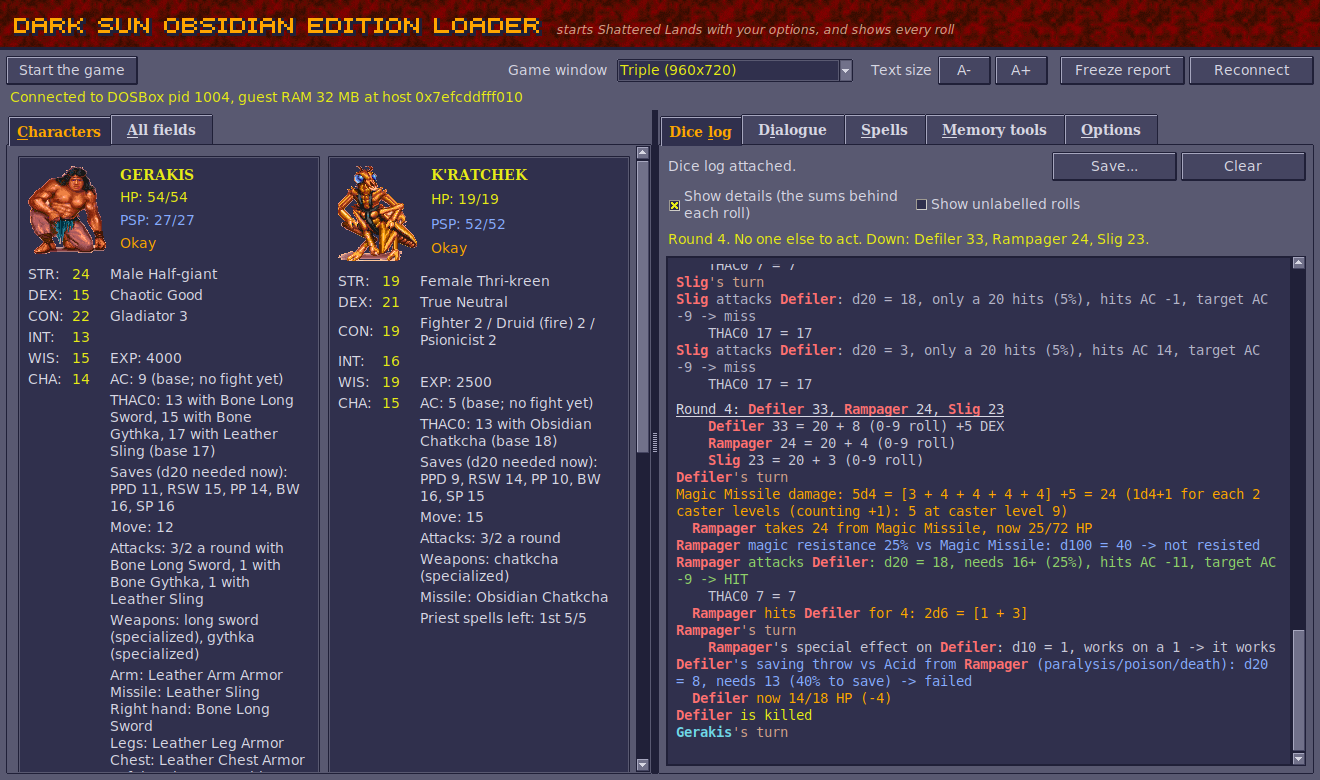
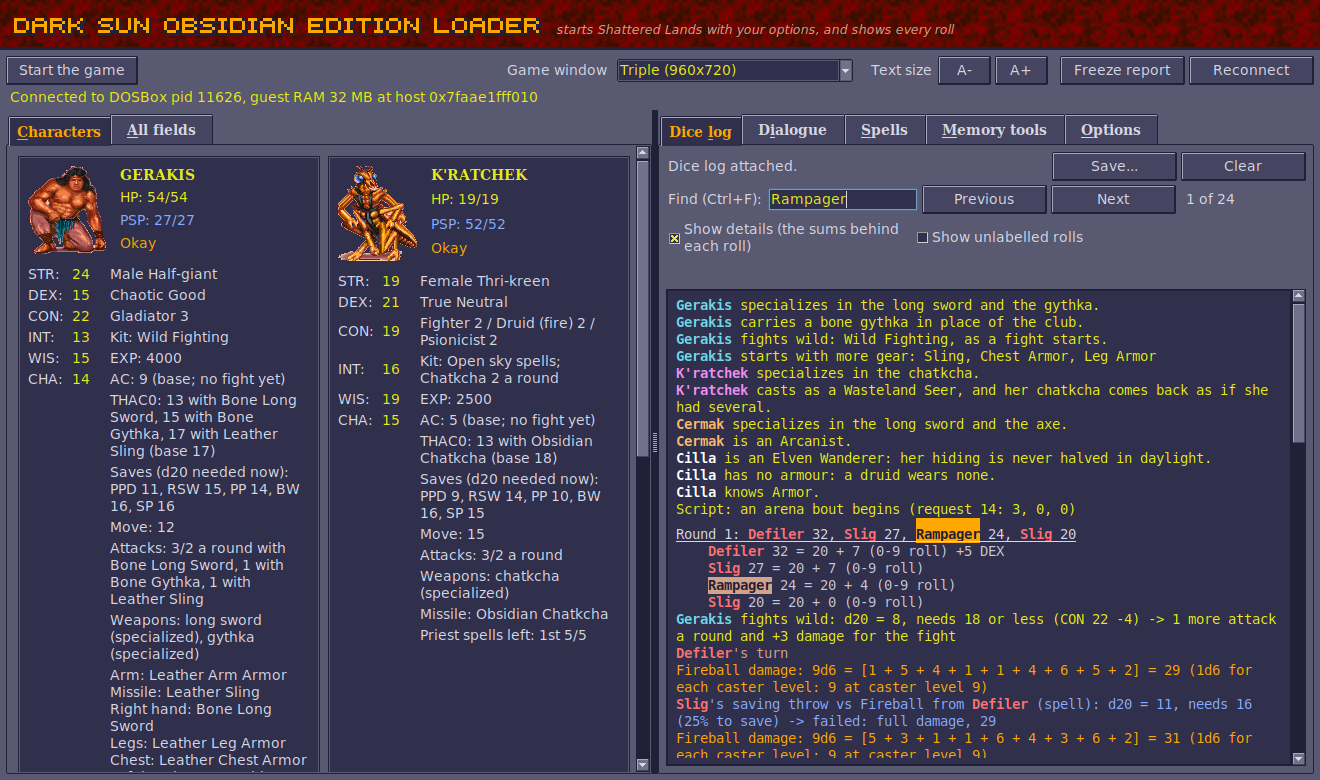
Docs review: scroll dice-log rows, Shinobi read languages link, new screenshots
The Loader README lists the scroll lines (a preserver's INT roll, a
Shinobi's read languages then INT, a spell not the Shinobi's) in the
dice-log table, points to the Effects screen for a Shinobi's read
languages, and names M for the overhead map. The dice log and Dialogue
screenshots are retaken with the Find box, and the Options screenshot
with the new backstab wording.

Claude-Session: https://claude.ai/code/session_01BNiWkhyZSJPYsN3zRrweVp

diff --git a/obsidian-edition/README.md b/obsidian-edition/README.md
@@ -86,7 +86,7 @@ in DOSBox. You start the game with the **Dark Sun Obsidian Edition Loader**
   and armour, figures cast shadows and kick up dust, and elves and half-elves
   have a look of their own ([Graphics](FEATURES.md#graphics)).
 - **Quality of life:** choosing an enemy with Tab and attacking it with Enter,
-  a view that stays put in fights, dragging the map with the mouse wheel held
+  M for the overhead map, a view that stays put in fights, dragging the map with the mouse wheel held
   down, a pointer in the intro and scenes that a click skips
   ([Controls](FEATURES.md#controls)); 40 saves, each also kept under its name,
   and 29 saved characters
@@ -439,7 +439,9 @@ right-hand panel, drawn by the game's text routine so they look like the rest:
   backstab](FEATURES.md#hiding-in-shadows-to-backstab)). A worn belt's 5 is in
   `PICK` and `LOCK`, and with hiding to backstab a worn cloak's 10 in `HIDE` and
   boots' 10 in `MOVE` (95 for the Cloak and Boots of Elvenkind). Hear noise (one
-  script check) and read languages (none) are left out for want of room. A
+  script check) and read languages (a Shinobi's, for a scroll: on its
+  [Effects screen](KITS.md#changing-class)) are left out for want of
+  room. A
   ranger, with hiding to backstab on, gets their `MOVE` and `HIDE` in the same
   places, the cloak and boots counted (the other four left out);
 - right of SP in the saves (where RSW and BW sit on the rows above), the DEX
@@ -738,7 +740,7 @@ text, with the replies offered numbered underneath (and the list's title,
 such as "Answer Yes or No", above them), and then the one you picked:
 `You chose: No`.
 
-![The Dialogue tab at the start of a new game: the Announcer, with his portrait, introducing the Defiler's show](docs/dialogue.png)
+![The Dialogue tab at the start of a new game: the Announcer, with his portrait, introducing the Defiler's show and calling the gladiators into the arena](docs/dialogue.png)
 
 **Who's speaking.** The game's dialogue window gets only a portrait number,
 never a name. But when the game runs a script on someone (you click them, or
@@ -771,7 +773,7 @@ How it works: [DEVELOPMENT.md](DEVELOPMENT.md#the-dialogue-tab).
 
 ## The dice log
 
-![The Loader during the arena's opening show: the Characters tab with the game's own party, and the dice log of the Defiler's Magic Missile on the Rampager and the Rampager's acid killing the Defiler](docs/dicelog.png)
+![The Loader during the arena's opening show: the Characters tab with the game's own party, and the dice log with Find showing the first of 24 lines naming the Rampager: the party's kit lines, the first round's initiative, Gerakis's Wild Fighting roll and the Defiler's Fireball](docs/dicelog.png)
 
 **Finding something.** Type a word in **Find** above the log (Ctrl+F puts
 you there) and press Enter: every match lights up, the log jumps to the first,
@@ -896,6 +898,7 @@ creatures save again as they stay in them; those lines have no "from".
 |---|---|
 | `Message: Long Sword is broken !` | The game's own message boxes: broken or corroded weapons and armour, level-ups, "NO PATH FROM HERE" and so on. |
 | `Dinos cooks the vulture and the party eats with him: ... restored as after a full rest (HP, PSP and spell slots); the game gives each 100 XP` | Dinos asked about the cooked vulture (see [The cooked vulture](FEATURES.md#the-cooked-vulture)); the XP itself is on the `XP:` line after it. |
+| `Dreamwalker reads the scroll of Magic Missile: d100 = 37, needs 60 or less (INT 14) -> learnt` / `Xan reads the scroll of Shield: read languages d100 = 70, needs 35 or less -> can't read it (the scroll is used up)` / `Xan can't learn Armor from the scroll: not one of a Shinobi's spells (the scroll is kept)` | A try at a scroll's spell (see [Preservers' INT](FEATURES.md#preservers-int)): a preserver's d100 against INT's chance; a Shinobi's d100 against its read languages first, then INT's. A spell already known gives no line. |
 | `Daaki makes 20 burning arrows (5 a preserver level, 4): a 1st-level slot used; ...` | A Spellarcher's arrow button (see [Multiclass kits](KITS.md#multiclass-kits)); `no room in the backpack: left on the ground` when they went at the party's feet. |
 | `Dice: 1d8 = [3] = 3` | Dice the log couldn't tie to anything (for example a spell with no saving throw). |
 | `(The Loader stopped one of its own writes over the game's memory: ...)` | A safety net: the Loader never writes over the start of memory (the interrupt vectors, the BIOS's and DOS's data) or the first bytes of the game's data, which its C runtime checks ("Null pointer assignment"). Such a write could only come from a pointer the game has left empty for a moment; the line says where in the Loader it came from. Please report it. |
